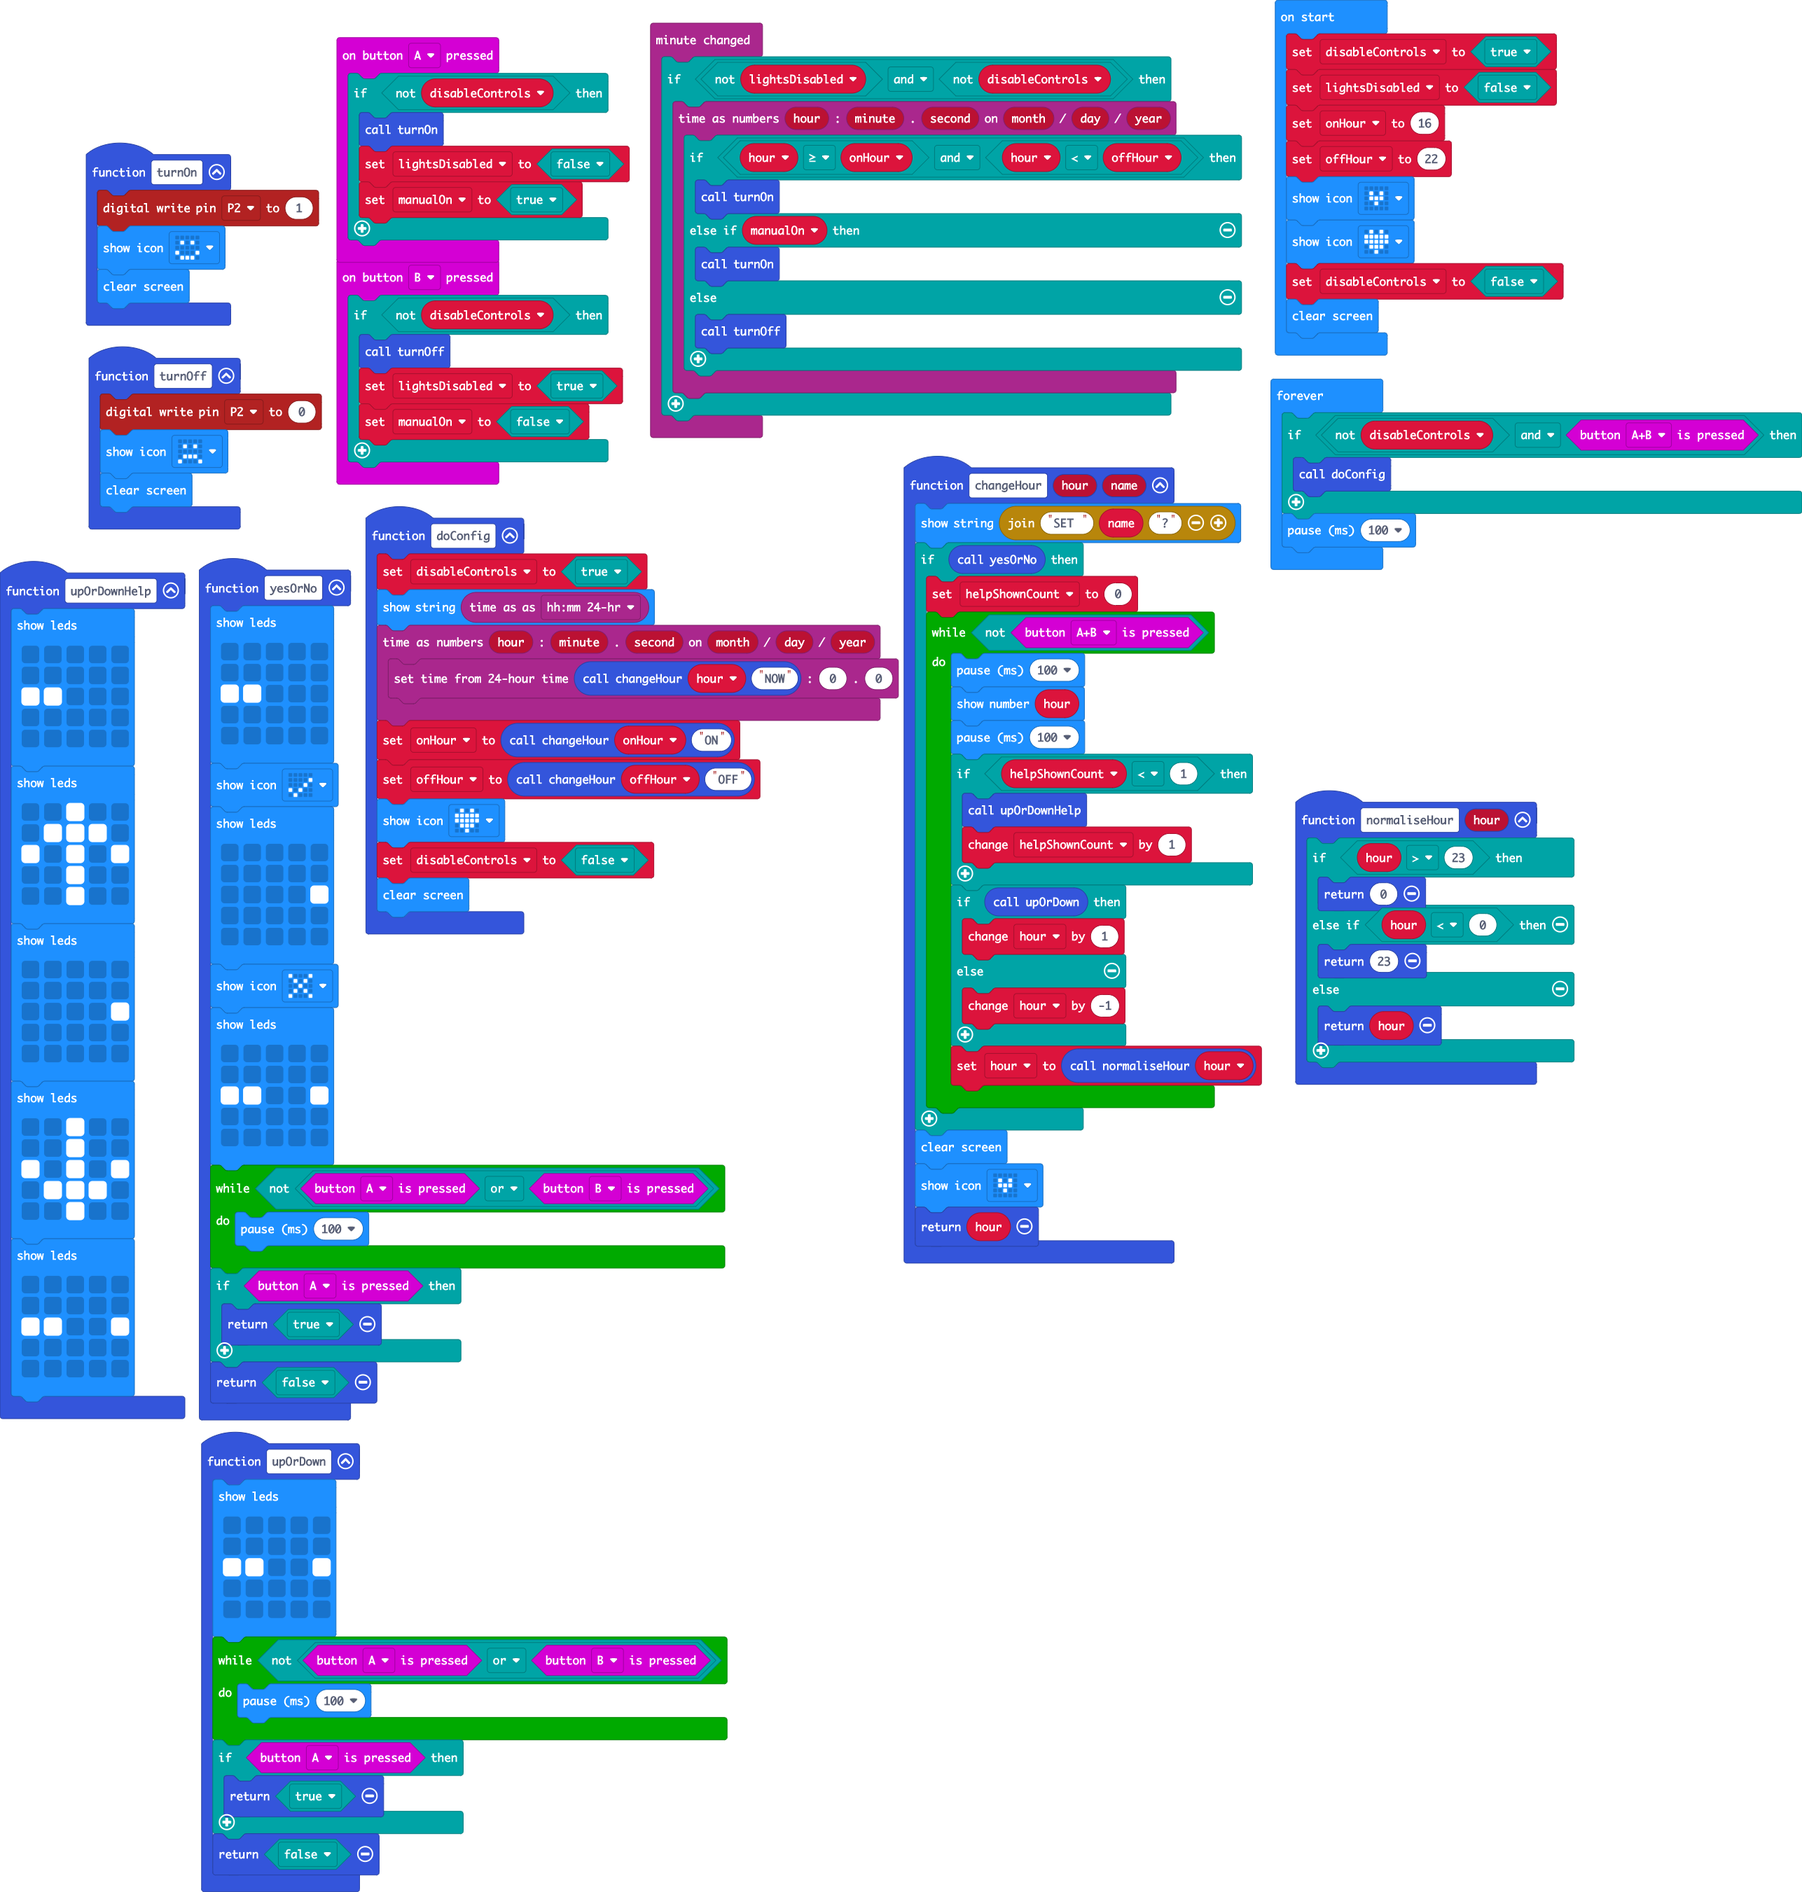
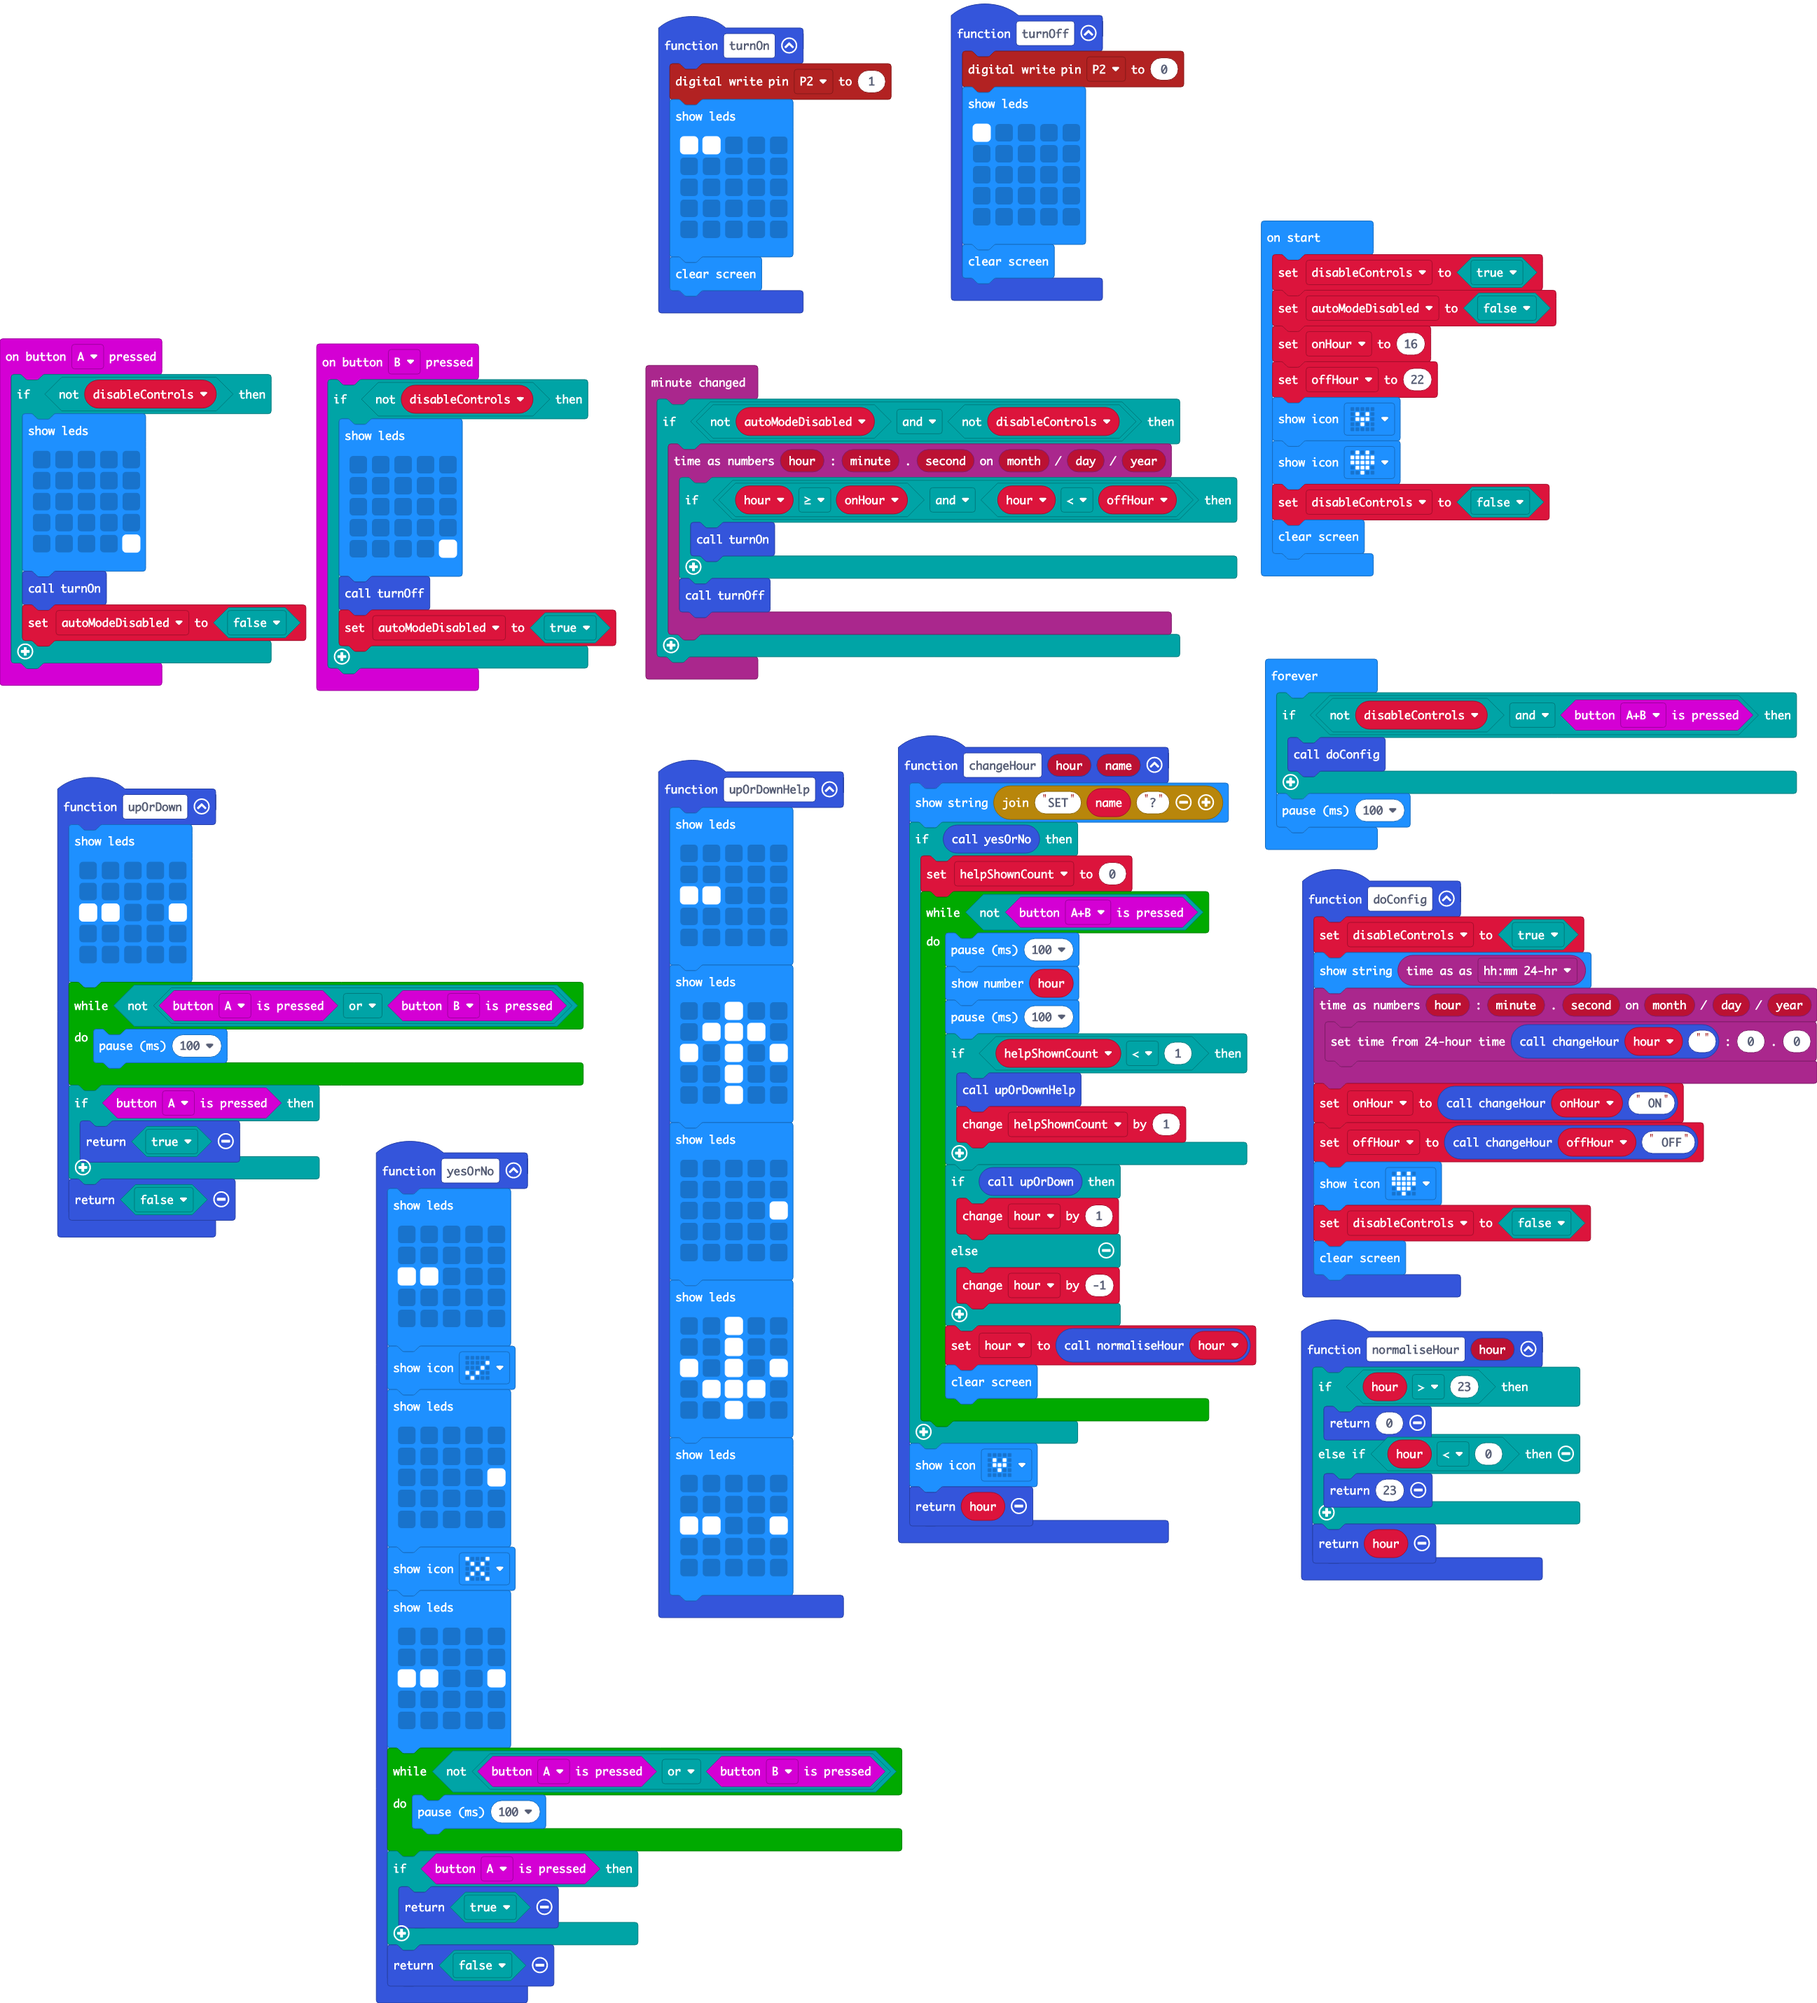
Reduce pixels lit when turned on/off; Remove manualOn; Cleanup code

diff --git a/main.ts b/main.ts
@@ -1,6 +1,12 @@
 function turnOn () {
     pins.digitalWritePin(DigitalPin.P2, 1)
-    basic.showIcon(IconNames.Happy)
+    basic.showLeds(`
+        # # . . .
+        . . . . .
+        . . . . .
+        . . . . .
+        . . . . .
+        `)
     basic.clearScreen()
 }
 function yesOrNo () {
@@ -40,19 +46,24 @@ function normaliseHour (hour: number) {
         return 0
     } else if (hour < 0) {
         return 23
-    } else {
-        return hour
     }
+    return hour
 }
 input.onButtonPressed(Button.A, function () {
     if (!(disableControls)) {
+        basic.showLeds(`
+            . . . . .
+            . . . . .
+            . . . . .
+            . . . . .
+            . . . . #
+            `)
         turnOn()
-        lightsDisabled = false
-        manualOn = true
+        autoModeDisabled = false
     }
 })
 function changeHour (hour: number, name: string) {
-    basic.showString("SET " + name + "?")
+    basic.showString("SET" + name + "?")
     if (yesOrNo()) {
         helpShownCount = 0
         while (!(input.buttonIsPressed(Button.AB))) {
@@ -69,9 +80,9 @@ function changeHour (hour: number, name: string) {
                 hour += -1
             }
             hour = normaliseHour(hour)
+            basic.clearScreen()
         }
     }
-    basic.clearScreen()
     basic.showIcon(IconNames.SmallHeart)
     return hour
 }
@@ -113,28 +124,37 @@ function upOrDownHelp () {
         `)
 }
 timeanddate.onMinuteChanged(function () {
-    if (!(lightsDisabled) && !(disableControls)) {
+    if (!(autoModeDisabled) && !(disableControls)) {
         timeanddate.numericTime(function (hour, minute, second, month, day, year) {
             if (hour >= onHour && hour < offHour) {
                 turnOn()
-            } else if (manualOn) {
-                turnOn()
-            } else {
-                turnOff()
             }
+            turnOff()
         })
     }
 })
 input.onButtonPressed(Button.B, function () {
     if (!(disableControls)) {
+        basic.showLeds(`
+            . . . . .
+            . . . . .
+            . . . . .
+            . . . . .
+            . . . . #
+            `)
         turnOff()
-        lightsDisabled = true
-        manualOn = false
+        autoModeDisabled = true
     }
 })
 function turnOff () {
     pins.digitalWritePin(DigitalPin.P2, 0)
-    basic.showIcon(IconNames.Sad)
+    basic.showLeds(`
+        # . . . .
+        . . . . .
+        . . . . .
+        . . . . .
+        . . . . .
+        `)
     basic.clearScreen()
 }
 function upOrDown () {
@@ -157,23 +177,22 @@ function doConfig () {
     disableControls = true
     basic.showString(timeanddate.time(timeanddate.TimeFormat.HHMM24hr))
     timeanddate.numericTime(function (hour, minute, second, month, day, year) {
-        timeanddate.set24HourTime(changeHour(hour, "NOW"), 0, 0)
+        timeanddate.set24HourTime(changeHour(hour, ""), 0, 0)
     })
-    onHour = changeHour(onHour, "ON")
-    offHour = changeHour(offHour, "OFF")
+    onHour = changeHour(onHour, " ON")
+    offHour = changeHour(offHour, " OFF")
     basic.showIcon(IconNames.Heart)
     disableControls = false
     basic.clearScreen()
 }
 let hour = 0
 let helpShownCount = 0
-let manualOn = false
 let offHour = 0
 let onHour = 0
-let lightsDisabled = false
+let autoModeDisabled = false
 let disableControls = false
 disableControls = true
-lightsDisabled = false
+autoModeDisabled = false
 onHour = 16
 offHour = 22
 basic.showIcon(IconNames.SmallHeart)
